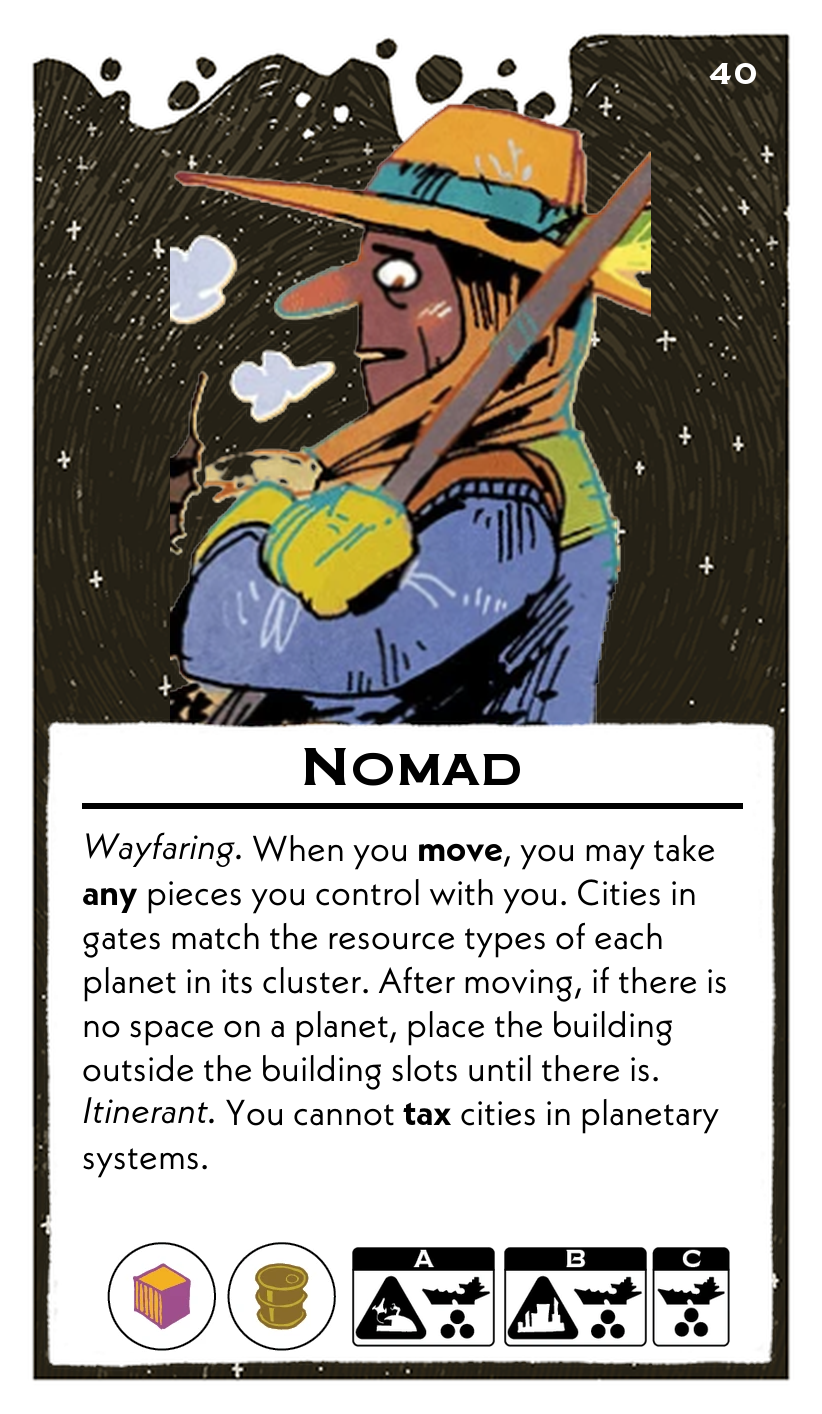
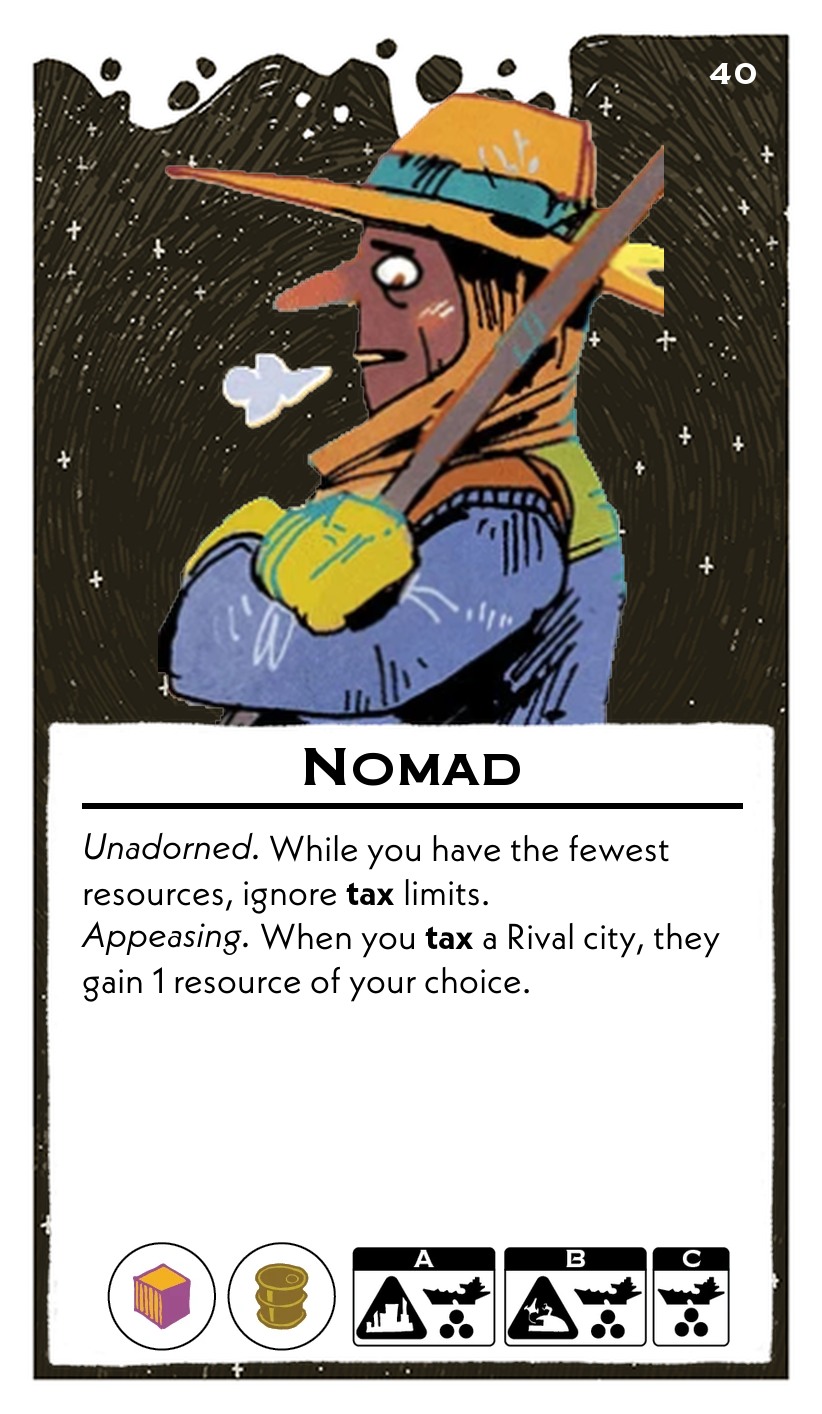
nomad

diff --git a/scripts/leadersFormatted.py b/scripts/leadersFormatted.py
@@ -622,13 +622,13 @@ leaders = [
     {
         "name": "Nomad",
         "abilities": (
-            "*Wayfaring.* When you **move**, you may take **any** pieces you control with you. Cities in gates match the resource types of each planet in its cluster. After moving, if there is no space on a planet, place the building outside the building slots until there is.\n"
-            "*Itinerant.* You cannot **tax** cities in planetary systems."
+            "*Unadorned.* While you have the fewest resources, ignore **tax** limits.\n"
+            "*Appeasing.* When you **tax** a Rival city, they gain 1 resource of your choice."
         ),
         "resources": ["Material", "Fuel"],
         "setup": {
-            "A": {"ships": 3, "building": "starport"},
-            "B": {"ships": 3, "building": "city"},
+            "A": {"ships": 3, "building": "city"},
+            "B": {"ships": 3, "building": "starport"},
             "C": {"ships": 3, "building": "None"}
         },
         "body_font_size": 18
